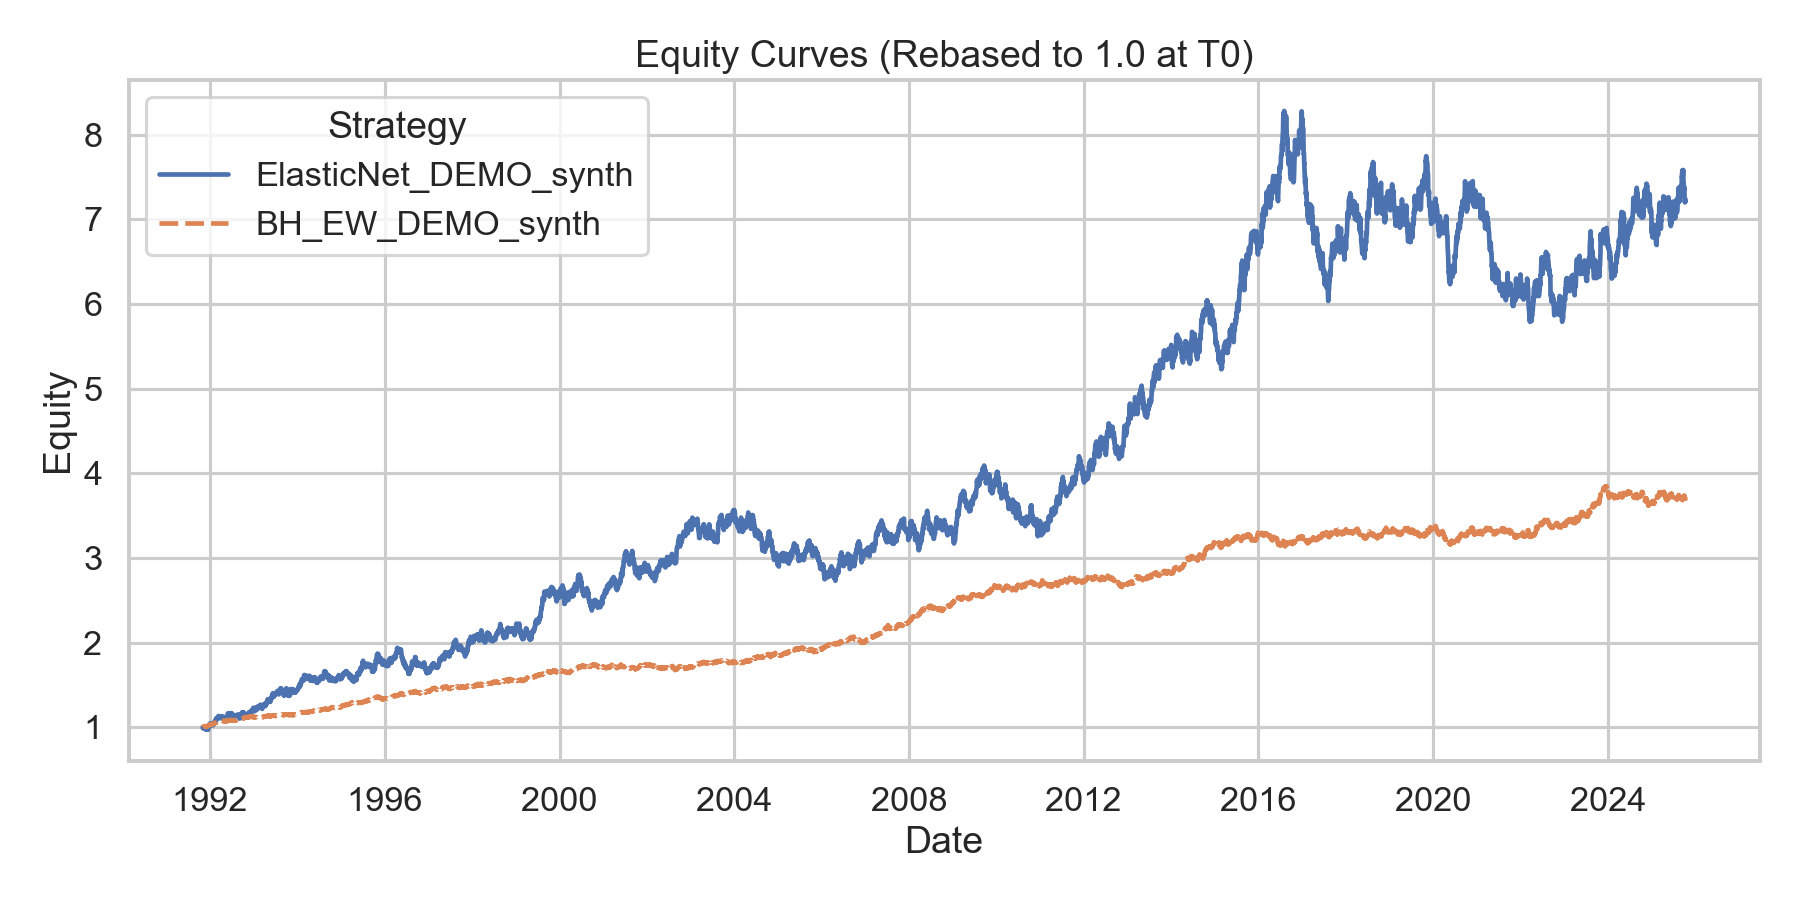
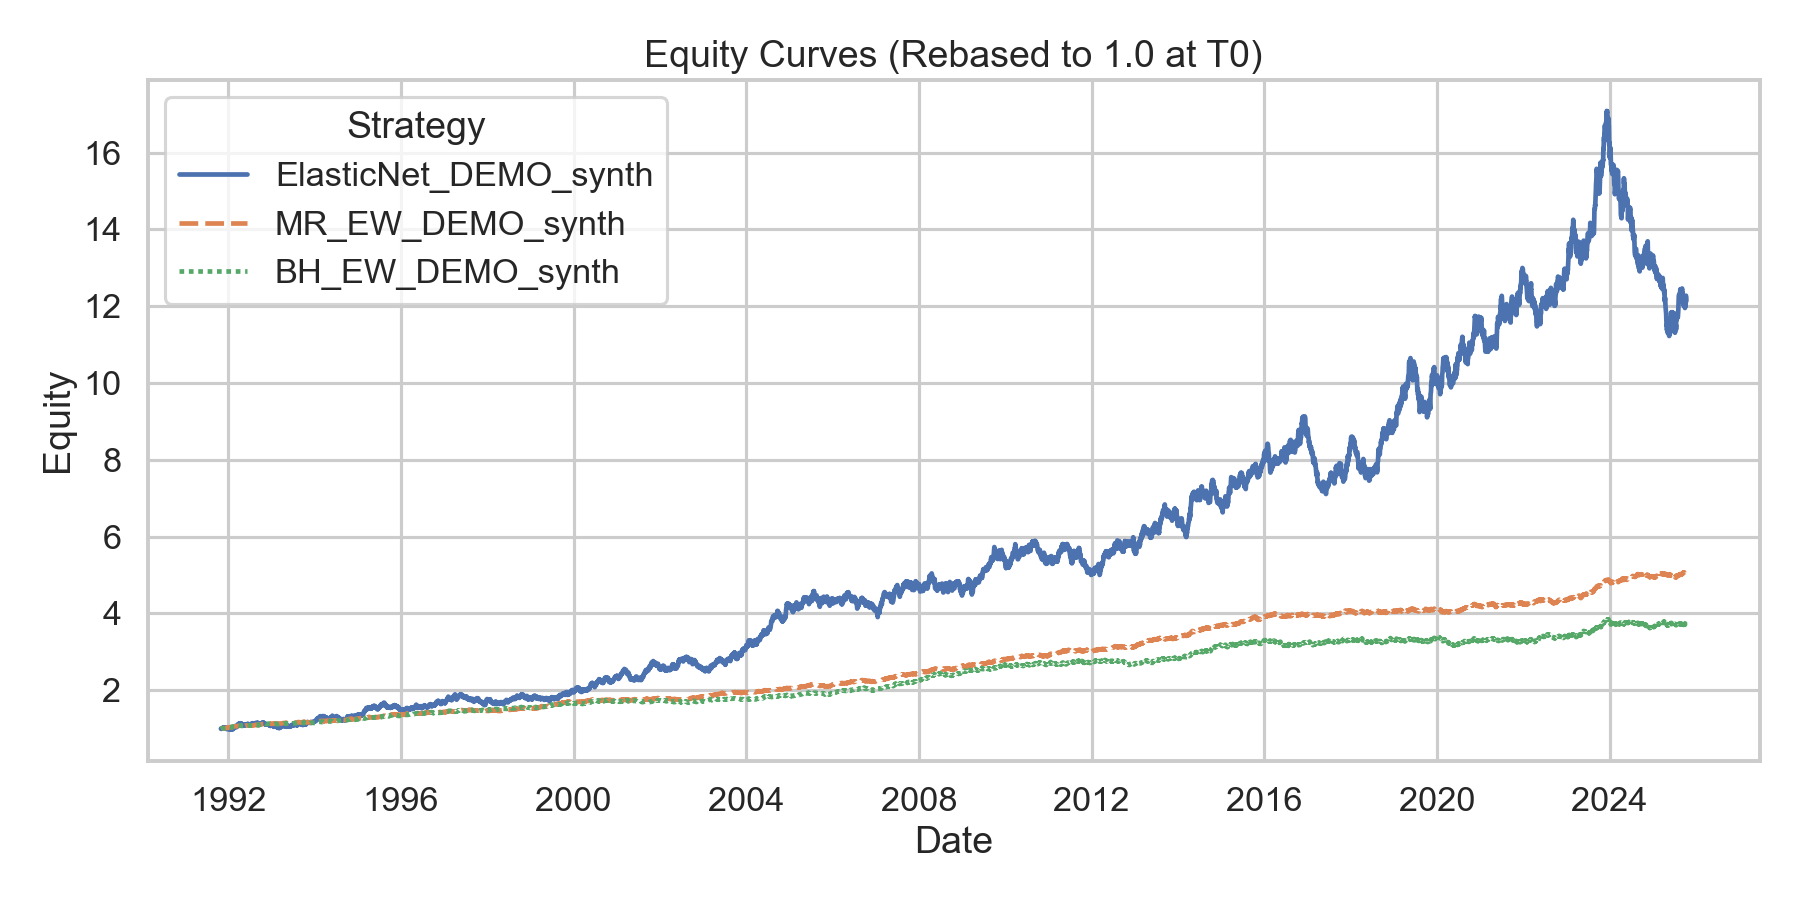
Added wrapper for MR strategy, fixed cost_bps not being passed down to benchmarks, minor adjustments

diff --git a/src/mlbt/pipelines/demo_helpers.py b/src/mlbt/pipelines/demo_helpers.py
@@ -7,7 +7,7 @@ import pandas as pd
 import logging
 import json
 
-from mlbt.backtest_engines import backtest_bh
+from mlbt.backtest_engines import backtest_bh, backtest_mr
 from mlbt.load_prices import load_prices
 from mlbt.utils import find_project_root, validate_px_wide_range
 from mlbt.strategy_result import StrategyResult
@@ -23,15 +23,27 @@ def load_benchmarks(
     loaded_cfg: dict[str, Any],
     run_name: str
 ) -> list[StrategyResult]:
+    kwargs = {}
+    if "backtest_params" in loaded_cfg and loaded_cfg["backtest_params"] is not None:
+        if "cost_bps" in loaded_cfg["backtest_params"]:
+            kwargs["cost_bps"] = float(loaded_cfg["backtest_params"]["cost_bps"])
+    
     bench_results = []
     if "benchmarks" in loaded_cfg and loaded_cfg["benchmarks"] is not None:
         benchmarks = set(loaded_cfg["benchmarks"])
     else:
         benchmarks = set()
+
+    if "MR_EW_self" in benchmarks:
+        b_res, b_params = backtest_mr(px_wide[(px_wide.index >= strat_start) & (px_wide.index <= strat_end)], **kwargs, name="MR_EW_" + run_name)
+        bench_results.append(b_res)
+        benchmarks.remove("MR_EW_self")
+
     if "BH_EW_self" in benchmarks:
-        b_res, b_params = backtest_bh(px_wide[(px_wide.index >= strat_start) & (px_wide.index <= strat_end)], name="BH_EW_" + run_name)
+        b_res, b_params = backtest_bh(px_wide[(px_wide.index >= strat_start) & (px_wide.index <= strat_end)], **kwargs, name="BH_EW_" + run_name)
         bench_results.append(b_res)
         benchmarks.remove("BH_EW_self")
+
     if benchmarks:
         px_wide_benchmarks = load_prices(
             in_dir=PROJECT_ROOT / "data/equity_data/",
@@ -59,7 +71,7 @@ def load_benchmarks(
 
         # now run BH strategy for remaining benchmarks
         for bench in benchmarks:
-            b_res, b_params = backtest_bh(px_wide_benchmarks[bench].to_frame(), name="BH_"+bench)
+            b_res, b_params = backtest_bh(px_wide_benchmarks[bench].to_frame(), **kwargs, name="BH_"+bench)
             bench_results.append(b_res)
 
     return bench_results
@@ -77,12 +89,12 @@ def demo_additional_outputs(
     strat_end = meta["strategy"]["strategy_end"]
 
     save = cfg["save"] if "save" in cfg else False
-    out_dir = PROJECT_ROOT / meta["paths"]["run_dir"] if save else None
-    plot_equities([res, *bench_results], save=save, out_dir=out_dir / "benchmarks", out_name="overlay.png")
+    out_dir = PROJECT_ROOT / meta["paths"]["run_dir"] / "benchmarks" if save else None
+    plot_equities([res, *bench_results], save=save, out_dir=out_dir, out_name="overlay.png")
     if save:
         for br in bench_results:
             eq = br.equity.copy()
-            eq.to_csv(out_dir / "benchmarks" / f"{eq.name}.csv", header=True)
+            eq.to_csv(out_dir / f"{eq.name}.csv", header=True)
 
     res_metrics = res.compute_metrics()
     # prepare log string

diff --git a/src/mlbt/backtest_engines/backtest_topn.py b/src/mlbt/backtest_engines/backtest_topn.py
@@ -25,7 +25,6 @@ All input data should be pre-curated to exclude dividend effects or splits, or
 should use adjusted prices to ensure return consistency.
 """
 import pandas as pd
-from typing import Dict, List, Optional, Tuple
 import logging
 
 from mlbt.strategy_result import StrategyResult
@@ -41,8 +40,8 @@ def backtest_topn(
     N: int = 10,
     cost_bps: float = 5.0,
     strict: bool = True,
-    name: Optional[str] = None
-) -> Tuple[StrategyResult, Dict]:
+    name: str | None = None
+) -> tuple[StrategyResult, dict]:
     """
     Backtest a monthly Top-N equity selection strategy.
 
@@ -59,11 +58,11 @@ def backtest_topn(
         ticker.  The index is used to infer month-end rebalance dates.
 
     predictions : pandas.DataFrame
-        MultiIndex DataFrame with index levels `["month", "ticker"]` containing
+        MultiIndex DataFrame with index levels `['month', 'ticker']` containing
         at least the column specified by `rank_col`.  Each row represents the
         model signal or score for a given month and ticker.
 
-    rank_col : str
+    rank_col : str, default 'y_pred'
         Name of the column in `predictions` to rank tickers by.  Higher values
         correspond to stronger buy signals.
 
@@ -83,7 +82,7 @@ def backtest_topn(
 
     Returns
     -------
-    (res, backtest_params) : Tuple[StrategyResult, dict]
+    (res, backtest_params) : tuple[StrategyResult, dict]
         `res`: StrategyResult of the Top-N backtest.
         `backtest_params`: Dictionary containing the backtest params used.
 
@@ -138,7 +137,7 @@ def backtest_topn(
             f"{len(bad_months)} months do not have exactly N={N} tickers, "
             f"examples:\n{bad_months.head(3)}"
         )
-    topn_map: Dict[pd.Period, pd.Index] = topn_tbl.reset_index().groupby("month", observed=True)["ticker"].apply(pd.Index).to_dict()
+    topn_map: dict[pd.Period, pd.Index] = topn_tbl.reset_index().groupby("month", observed=True)["ticker"].apply(pd.Index).to_dict()
     
     # initial portfolio allocation on first rebalance date
     topn = topn_map[t0.to_period("M")]
@@ -148,9 +147,9 @@ def backtest_topn(
     eq = 1.0
     equity = [eq] # construct daily equity curve
     charged_init = False # initial investment fee not charged yet
-    weights_map: Dict[pd.Timestamp, pd.Series] = {}
-    turnover_items: Dict[pd.Timestamp, float] = {}
-    selections: Dict[pd.Timestamp, List[str]] = {}
+    weights_map: dict[pd.Timestamp, pd.Series] = {}
+    turnover_items: dict[pd.Timestamp, float] = {}
+    selections: dict[pd.Timestamp, list[str]] = {}
 
     weights_map[t0] = w.copy()
     selections[t0] = topn.tolist().copy()

diff --git a/src/mlbt/backtest_engines/backtest_mr.py b/src/mlbt/backtest_engines/backtest_mr.py
@@ -1,0 +1,61 @@
+# src/mlbt/backtest_mr.py
+"""
+Monthly rebalance backtester.
+
+This module provides a convenience wrapper for the Top-N selection backtester to backtest a monthly rebalance strategy on the whole provided universe.
+"""
+import pandas as pd
+
+from .backtest_topn import backtest_topn
+from mlbt.strategy_result import StrategyResult
+from mlbt.calendar import build_month_end_grid
+
+
+def backtest_mr(
+    px_wide: pd.DataFrame,
+    *,
+    cost_bps: float = 5.0,
+    strict: bool = True,
+    name: str | None = None
+) -> tuple[StrategyResult, dict]:
+    """
+    Convenience wrapper for a monthly rebalance strategy using `backtest_topn`. Currently only supports equal weight across entire provided universe.
+
+    Parameters
+    ----------
+    px_wide : pandas.DataFrame
+        Wide DataFrame of daily prices, with a DatetimeIndex and one column per
+        ticker.  The index is used to infer month-end rebalance dates.
+    
+    cost_bps : float, default=5.0
+        One-way transaction cost in basis points applied on turnover at each
+        rebalance.  A cost of 5.0 corresponds to 0.05 %.
+
+    strict: bool, optional True
+        Currently not used, may be used to enforce behavior in case of missing tickers in the future (hold, cash, ...).
+
+    name : str, optional
+        Optional identifier for the resulting strategy.  Defaults to
+        `"MR_EW"`.
+
+    Returns
+    -------
+    (res, backtest_params) : tuple[StrategyResult, dict]
+        `res`: StrategyResult of the MR backtest.
+        `backtest_params`: Dictionary containing the backtest params used.
+    """
+    # create arbitraty predictions table for compatibility
+    me_grid = build_month_end_grid(px_wide)
+    me_grid["y_pred"] = 1
+
+    res, meta = backtest_topn(
+        px_wide=px_wide,
+        predictions=me_grid,
+        rank_col="y_pred",
+        N=len(px_wide.columns), # include all tickers
+        cost_bps=cost_bps,
+        strict=strict,
+        name=name
+    )
+
+    return res, meta

diff --git a/src/mlbt/visualisation.py b/src/mlbt/visualisation.py
@@ -6,7 +6,7 @@ This module holds tools and helpers to visualise a variety of data, such as equi
 """
 import pandas as pd
 from pathlib import Path
-from typing import Sequence, Optional
+from collections.abc import Sequence
 import matplotlib.pyplot as plt
 import seaborn as sns
 
@@ -15,9 +15,9 @@ from mlbt.strategy_result import StrategyResult
 
 def plot_equities(
     results: Sequence[StrategyResult],
-    names: Optional[Sequence[str]] = None,
+    names: Sequence[str] | None = None,
     save: bool = False,
-    out_dir: Optional[Path] = None,
+    out_dir: Path | None = None,
     out_name: str = "equities.png"
 ) -> None:
     if names is None:

diff --git a/src/mlbt/backtest_engines/__init__.py b/src/mlbt/backtest_engines/__init__.py
@@ -1,8 +1,10 @@
 # src/mlbt/backtest_engines/__init__.py
 from .backtest_bh import backtest_bh
 from .backtest_topn import backtest_topn
+from .backtest_mr import backtest_mr
 
 __all__ = [
     "backtest_bh",
-    "backtest_topn"
+    "backtest_topn",
+    "backtest_mr"
 ]

diff --git a/README.md b/README.md
@@ -72,7 +72,7 @@ The chart below shows the cumulative equity curve of the strategy versus the con
 
 ![Strategy vs Benchmark Overlay](docs/images/overlay_demo_synth.png)
 
-Here, the prefix `BH` stands for *Buy-and-Hold* and the prefix `EW` for *Equal Weight*.
+Here, the prefix `BH` stands for *Buy-and-Hold*, `MR` for *Monthly Rebalance*, and `EW` for *Equal Weight*.
 
 ---
 
@@ -128,7 +128,7 @@ The chart below shows the cumulative equity curve of the strategy versus the con
 
 ![Strategy vs Benchmark Overlay](docs/images/overlay_demo15.png)
 
-Here, the prefix `BH` stands for *Buy-and-Hold* and the prefix `EW` for *Equal Weight*.
+Here, the prefix `BH` stands for *Buy-and-Hold*, `MR` for *Monthly Rebalance*, and `EW` for *Equal Weight*.
 
 ---
 
